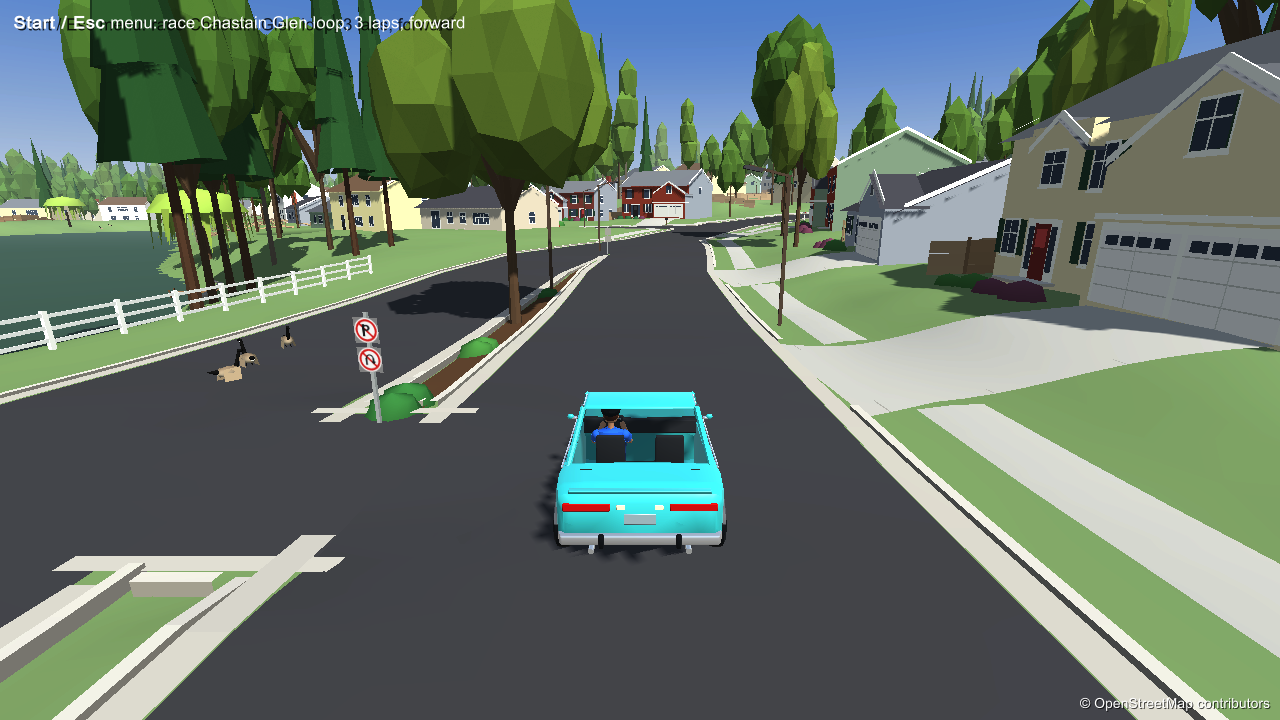
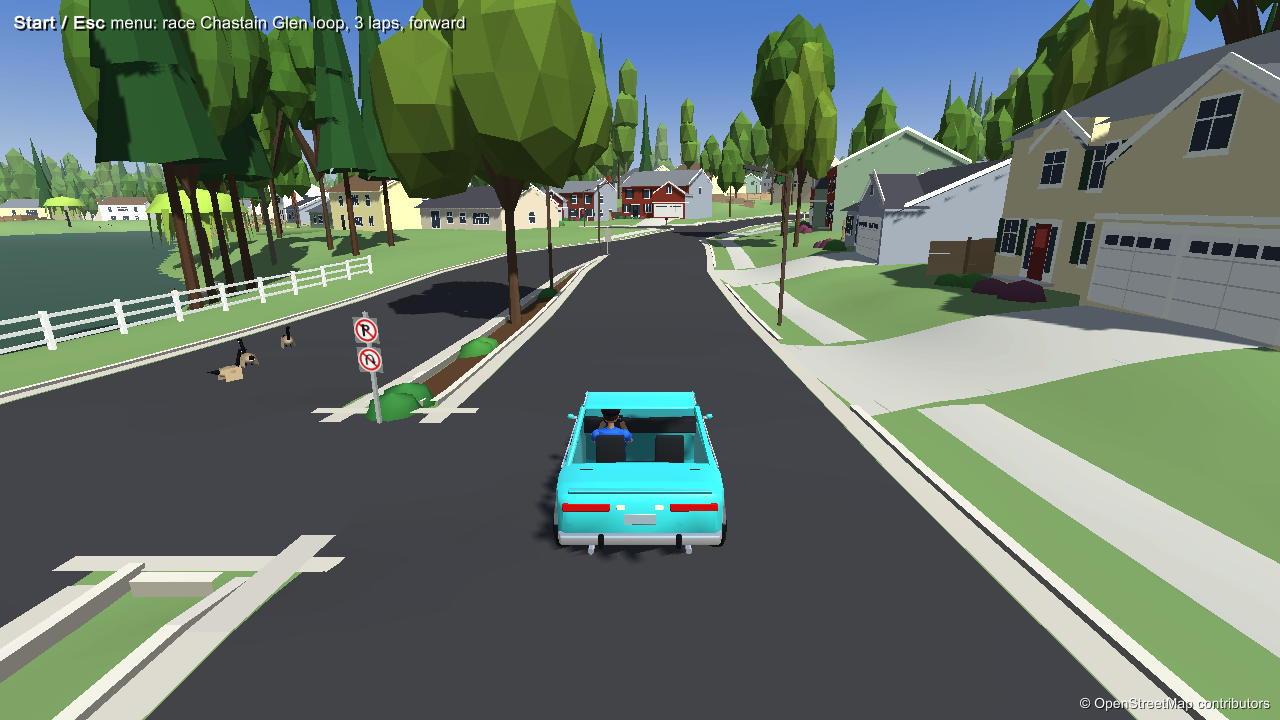
Round 17 Part A item 4: the HUD shadow keeps bold tags so the top-left line is drawn once (left out of b512061)

Changed region(s): [[0.0312, 0.0, 0.375, 0.0611]]

diff --git a/Assets/Scripts/Race/RaceController.cs b/Assets/Scripts/Race/RaceController.cs
@@ -728,7 +728,9 @@ namespace ChastainRush
             style.normal.textColor = new Color(0, 0, 0, 0.85f); GUI.Label(new Rect(r.x + 2, r.y + 2, r.width, r.height), StripTags(text), style);
             style.normal.textColor = old; GUI.Label(r, text, style);
         }
-        static string StripTags(string s) => System.Text.RegularExpressions.Regex.Replace(s, "<.*?>", "");
+        // Round 17, item 4: only the color tags go (the shadow is black); bold stays, else the shadow is narrower than the
+        // bold text and shows as a second, offset copy of the line
+        static string StripTags(string s) => System.Text.RegularExpressions.Regex.Replace(s, "</?color[^>]*>", "");
 
         void OnGUI()
         {
